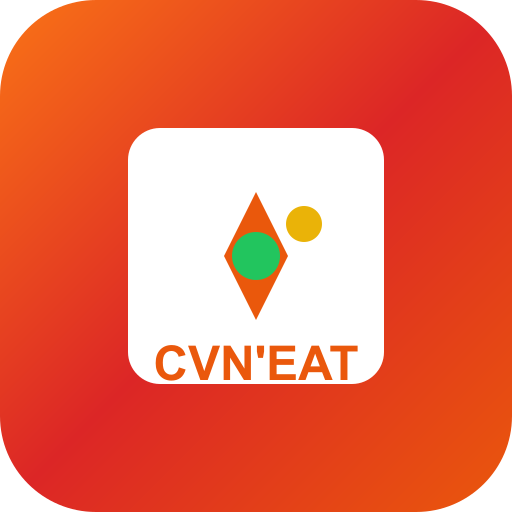
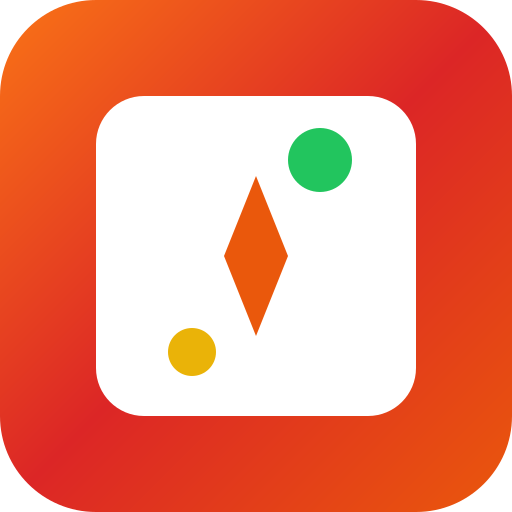
Fix: Notification navigateur dans track-order inclut la raison de refus - Les notifications navigateur affichent maintenant la raison si disponible - Icônes PNG régénérées avec le nouveau design CVN'EAT

Changed region(s): [[0.1875, 0.1875, 0.8125, 0.8125]]

diff --git a/app/track-order/page.js b/app/track-order/page.js
@@ -289,12 +289,20 @@ export default function TrackOrder() {
                 'pret_a_livrer': 'Votre commande est prête !',
                 'ready': 'Votre commande est prête !',
                 'livree': 'Votre commande a été livrée !',
-                'delivered': 'Votre commande a été livrée !'
+                'delivered': 'Votre commande a été livrée !',
+                'refusee': data.rejection_reason || data.rejectionReason 
+                  ? `Votre commande a été refusée ❌\nRaison: ${data.rejection_reason || data.rejectionReason}`
+                  : 'Votre commande a été refusée ❌',
+                'rejected': data.rejection_reason || data.rejectionReason 
+                  ? `Votre commande a été refusée ❌\nRaison: ${data.rejection_reason || data.rejectionReason}`
+                  : 'Votre commande a été refusée ❌'
               };
               
+              const notificationBody = statusMessages[currentStatus] || 'Statut de votre commande mis à jour';
+              
               new Notification('CVN\'EAT - Mise à jour commande', {
-                body: statusMessages[currentStatus] || 'Statut de votre commande mis à jour',
-                icon: '/favicon.ico'
+                body: notificationBody,
+                icon: '/icon-192x192.png'
               });
             }
             
